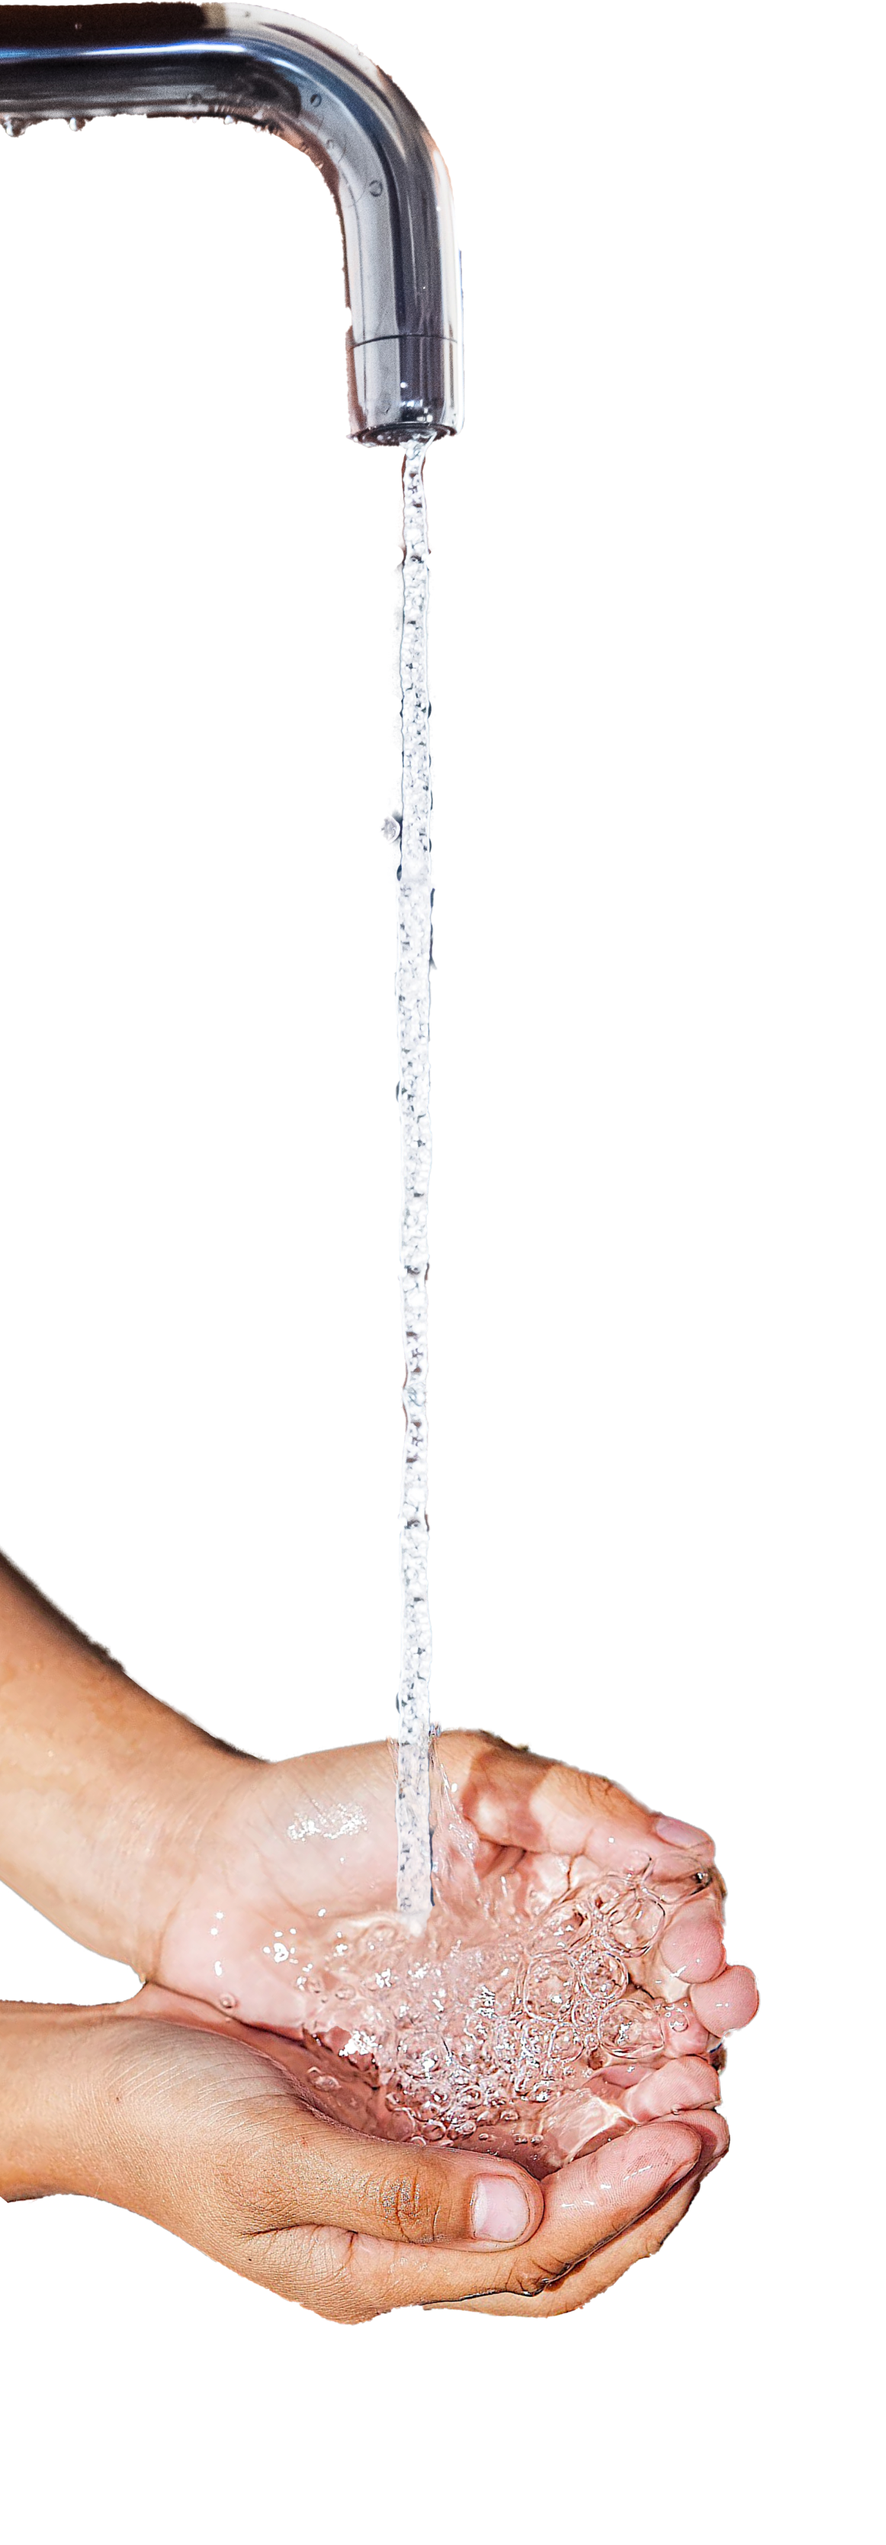
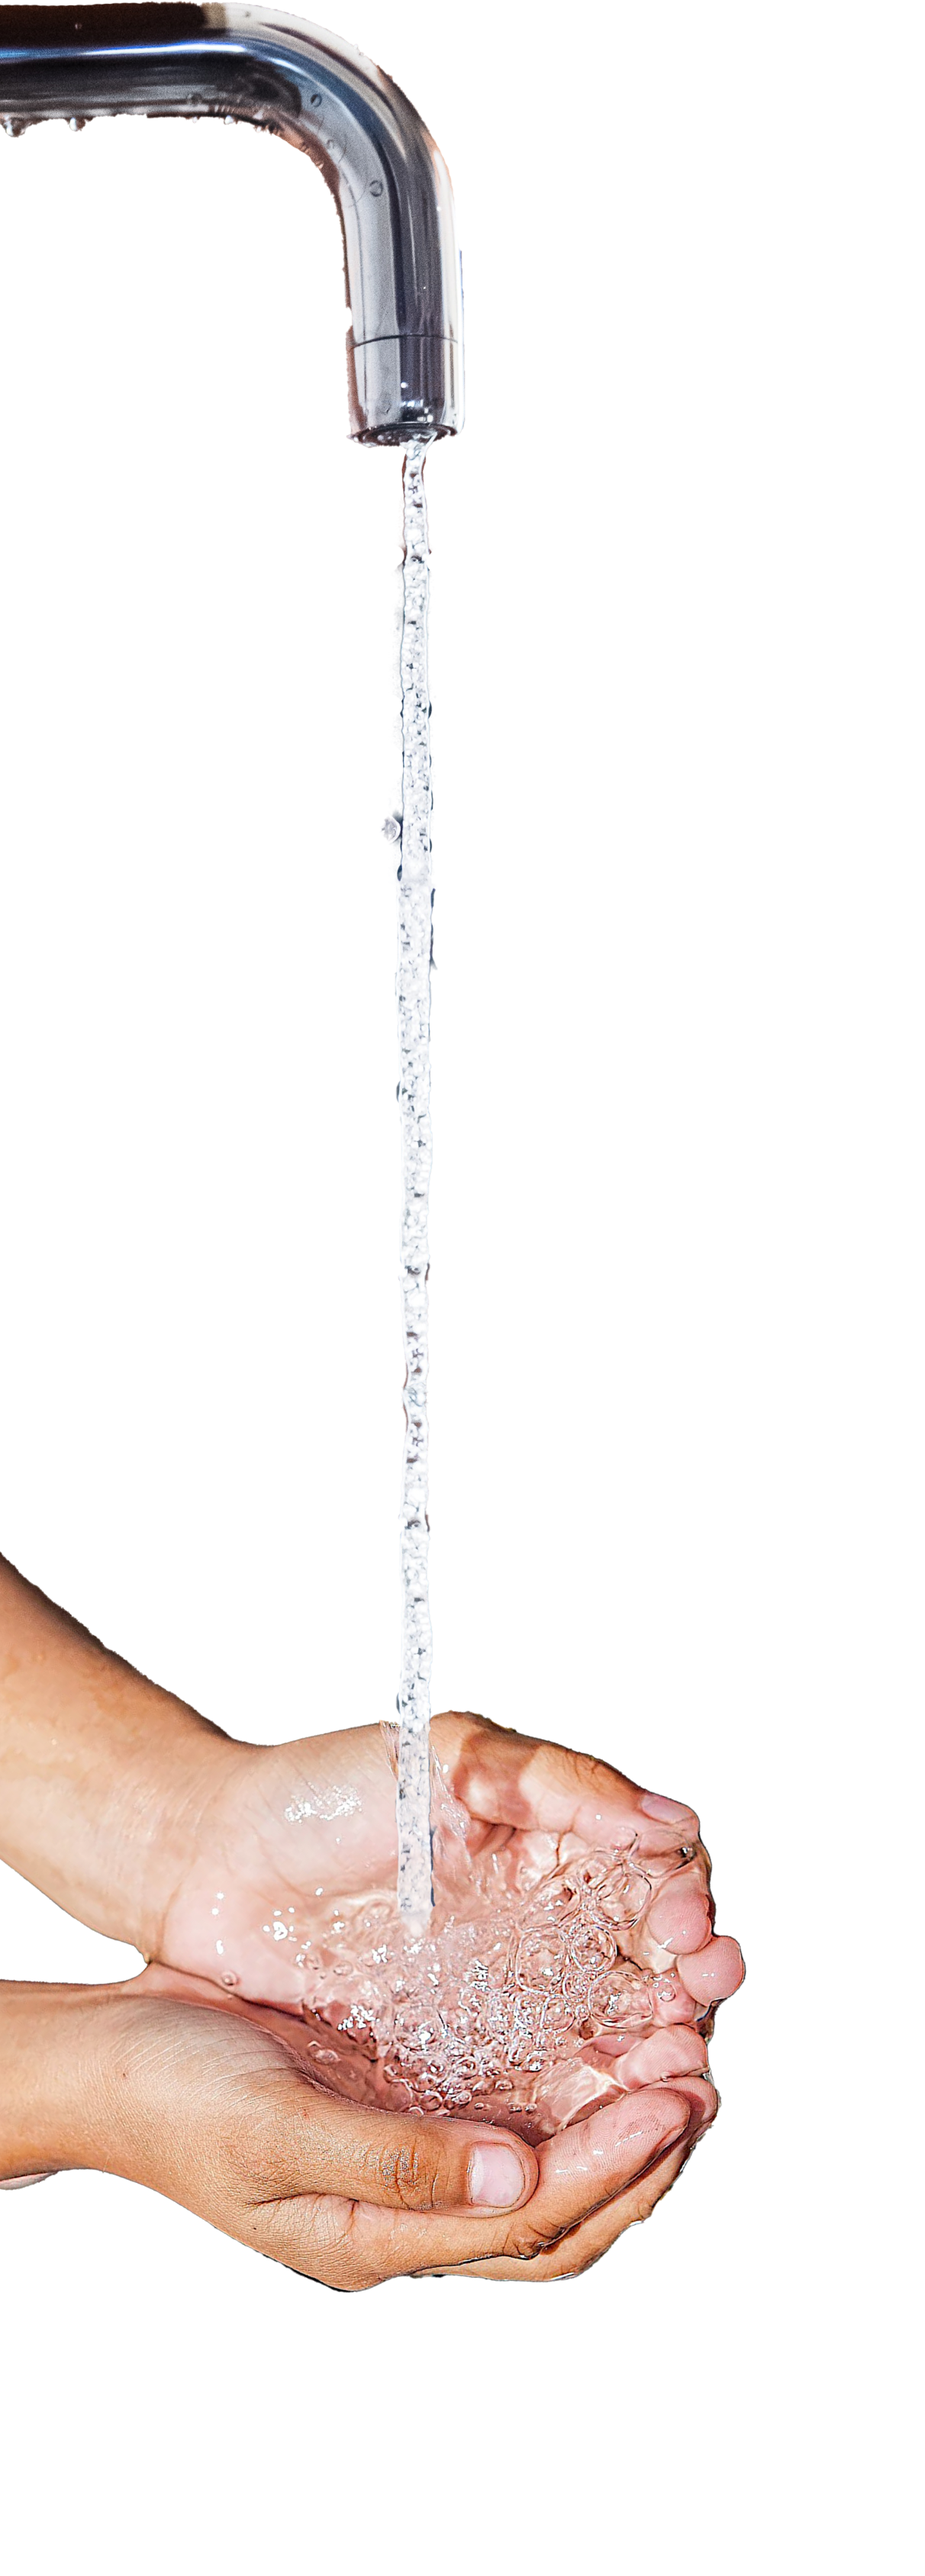
TASK: fixed postina-mob image and some widows, added bounce animation for down arrow

Changed region(s): [[0.0, 0.0, 0.8675, 0.9355]]

diff --git a/pages/index.js b/pages/index.js
@@ -55,17 +55,19 @@ export default function Home() {
                   </span>
                 </a>
               </button>
-              <p className='font-light italic mb-10 opacity-0 animate-[fade_0.25s_ease-out_0.5s_forwards]'>
+              <p className='font-light italic mb-16 opacity-0 animate-[fade_0.25s_ease-out_0.5s_forwards]'>
                 100% of your donation will always fund{' '}
                 <span className='whitespace-nowrap'>clean water.</span>
               </p>
-              <Image
-                src='/down-arrow.svg'
-                alt='white down arrow'
-                width={24}
-                height={133}
-                className='opacity-0 animate-[fade_0.25s_ease-out_0.6s_forwards]'
-              />
+              <div className='animate-bounce'>
+                <Image
+                  src='/down-arrow.svg'
+                  alt='white down arrow'
+                  width={24}
+                  height={133}
+                  className='opacity-0 animate-[fade_0.25s_ease-out_0.6s_forwards]'
+                />
+              </div>
             </div>
           </div>
         </section>
@@ -89,8 +91,8 @@ export default function Home() {
               <Image
                 src='/faucet.png'
                 alt='hands catching water from running faucet'
-                width={581}
-                height={1668}
+                width={606}
+                height={1688}
               />
             </div>
             {/* icons with text */}
@@ -186,7 +188,8 @@ export default function Home() {
                   for their family. Not only does walking for water keep
                   children out of school or take up time that parents could be
                   using to earn money, but the water often carries diseases that
-                  can make everyone sick.
+                  can make{' '}
+                  <span className='whitespace-nowrap'>everyone sick.</span>
                 </p>
               </div>
               <button className='bg-yellow rounded-[1.25rem] hover:shadow-standard focus:shadow-standard'>

diff --git a/components/Carousel.js b/components/Carousel.js
@@ -28,7 +28,7 @@ const Carousel = () => {
             width={300}
             height={230}
           />
-          <div className='mt-6 mb-12 flex justify-center items-center'>
+          <div className='pt-6 pb-12 flex justify-center items-center bg-white'>
             <div className='text-center w-4/5'>
               <CaptionContent
                 isMobile
@@ -44,11 +44,11 @@ const Carousel = () => {
         <SwiperSlide>
           <Image
             src='/richard-mob.png'
-            alt='Postina'
+            alt='Richard'
             width={300}
             height={230}
           />
-          <div className='mt-6 mb-12 flex justify-center items-center'>
+          <div className='pt-6 pb-12 flex justify-center items-center bg-white'>
             <div className='text-center w-4/5'>
               <CaptionContent
                 isMobile
@@ -62,8 +62,8 @@ const Carousel = () => {
           </div>
         </SwiperSlide>
         <SwiperSlide>
-          <Image src='/joyce-mob.png' alt='Postina' width={300} height={230} />
-          <div className='mt-6 mb-12 flex justify-center items-center'>
+          <Image src='/joyce-mob.png' alt='Joyce' width={300} height={230} />
+          <div className='pt-6 pb-12 flex justify-center items-center bg-white'>
             <div className='text-center w-4/5'>
               <CaptionContent
                 isMobile

diff --git a/styles/globals.css b/styles/globals.css
@@ -46,7 +46,6 @@
 }
 
 .swiper-slide {
-  background-color: #ffffff;
   width: 300px !important;
 }
 
